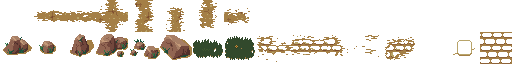
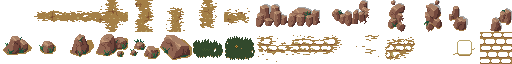
Add more stone objects to sand layer

Changed region(s): [[0.75, 0.0, 1.0, 0.5], [0.5, 0.0, 0.7188, 0.4375], [0.625, 0.6875, 0.6875, 0.875]]

diff --git a/src/generation/object/lib/object_name.rs b/src/generation/object/lib/object_name.rs
@@ -23,6 +23,14 @@ pub enum ObjectName {
   SandPathCross,
   SandPathHorizontal,
   SandPathVertical,
+  SandStoneTopFill1,
+  SandStoneTopFill2,
+  SandStoneTopRightFill,
+  SandStoneTopLeftFill,
+  SandStoneRightFill,
+  SandStoneLeftFill,
+  SandStoneBottomRightFill,
+  SandStoneBottomLeftFill,
   GrassRubbleLeft,
   GrassRubbleRight,
   GrassRubbleTop,
